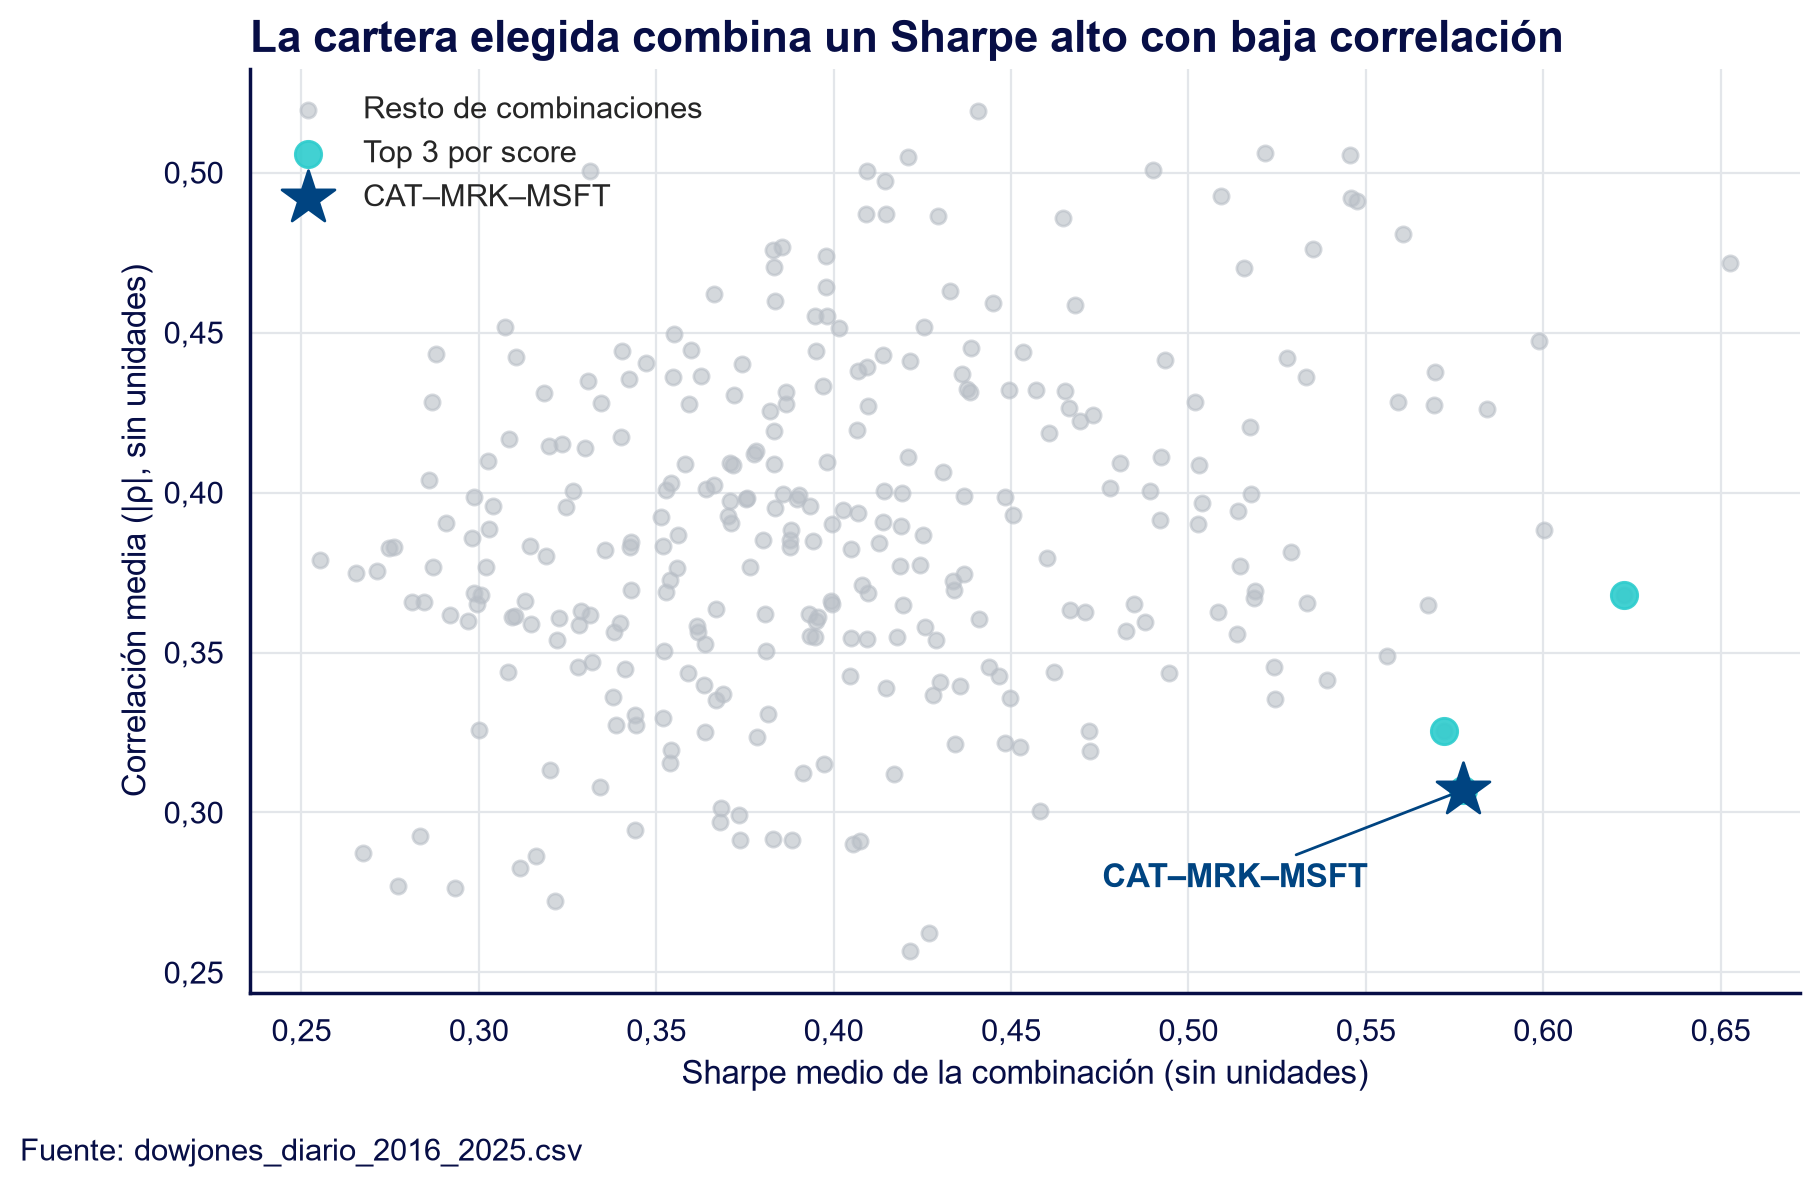
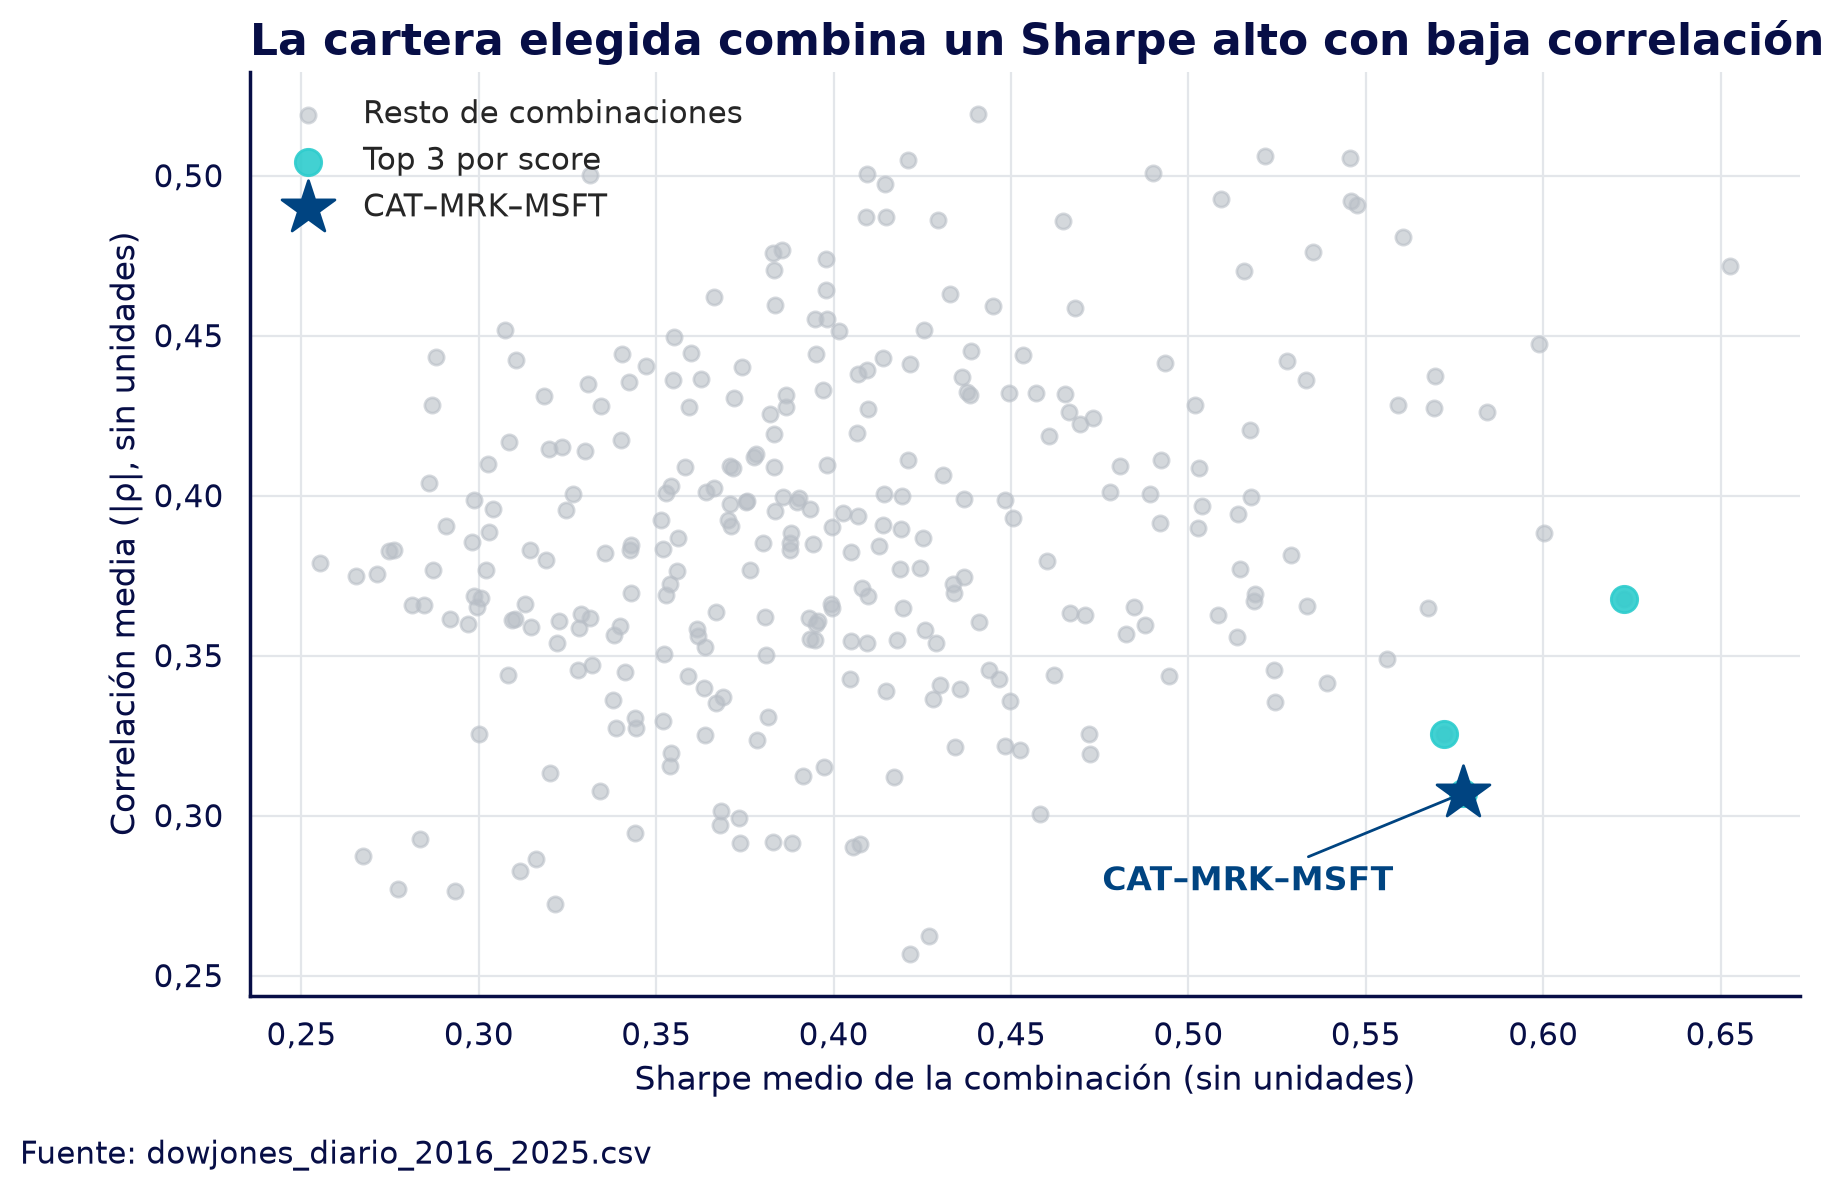
Actualizar gráficos del dashboard de cartera

diff --git a/Dashboard Cartera/js/dashboard.js b/Dashboard Cartera/js/dashboard.js
@@ -227,7 +227,7 @@ async function init(){
     let resize;window.addEventListener('resize',()=>{clearTimeout(resize);resize=setTimeout(navigate,160);});
     window.addEventListener('beforeprint',navigate);
     $('#export').addEventListener('click',download);
-  }catch(error){$('#load-status').setAttribute('role','alert');$('#load-status').textContent=`${error.message} Abre dashboard/index.html con Live Server y comprueba las carpetas datos/ y vendor/.`;}
+  }catch(error){$('#load-status').setAttribute('role','alert');$('#load-status').textContent=`${error.message} Abre Dashboard Cartera/index.html con Live Server y comprueba las carpetas datos/ y vendor/.`;}
 }
 $('#print').addEventListener('click',()=>window.print());
 ['#method-open','#method-footer'].forEach(id=>$(id).addEventListener('click',()=>$('#method-dialog').showModal()));

diff --git a/Dashboard Cartera/scripts/exportar_datos.py b/Dashboard Cartera/scripts/exportar_datos.py
@@ -17,7 +17,10 @@ assert not df.duplicated(['symbol', 'date']).any()
 assert df['close'].gt(0).all() and df[['date', 'symbol', 'close']].notna().all().all()
 prices = df.pivot(index='date', columns='symbol', values='close').sort_index()
 returns = np.log(prices / prices.shift(1)).dropna(how='all')
-notebook = json.loads((ROOT / '04_Seleccion_cartera.ipynb').read_text(encoding='utf-8'))
+notebook_path = ROOT / '04_Seleccion_cartera.ipynb'
+if not notebook_path.exists():
+    notebook_path = ROOT / 'seleccion_cartera.ipynb'
+notebook = json.loads(notebook_path.read_text(encoding='utf-8'))
 constants = {}
 for cell in notebook['cells']:
     if cell['cell_type'] != 'code':
